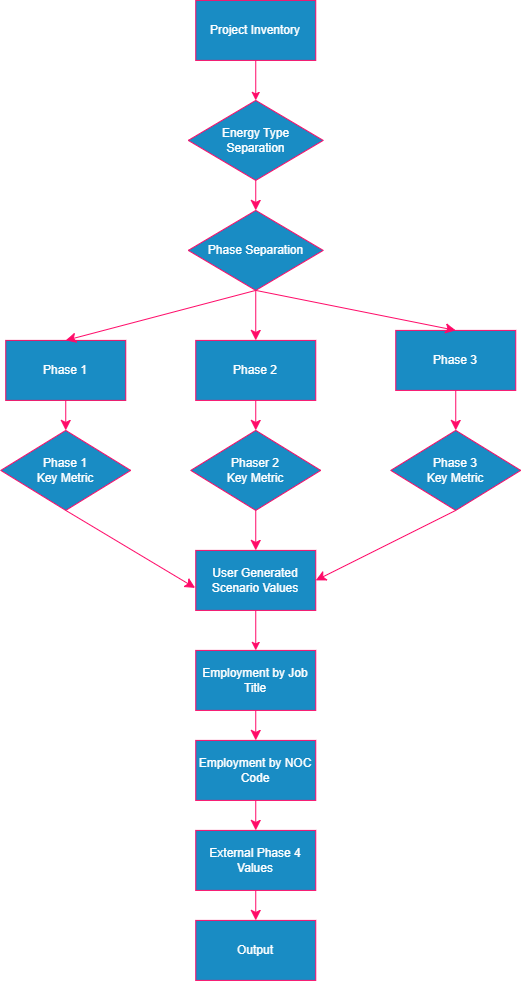
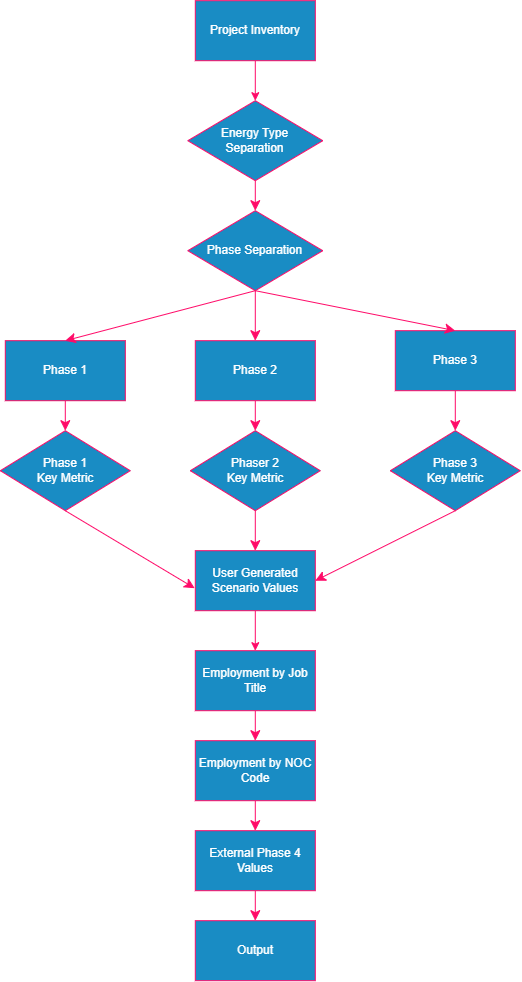
added preliminary research projects. needs proofing

diff --git a/styles.css b/styles.css
@@ -423,3 +423,20 @@ main.content figcaption {
   color: var(--text-muted);
   font-size: 0.9rem;
 }
+
+/* --------------------------------
+   RESEARCH PROJECT IMAGES
+-------------------------------- */
+
+.project-hero-image {
+  width: 100%;
+  height: auto;
+  display: block;
+
+  margin-top: 1.5rem;
+  margin-bottom: 2rem;
+
+  border-radius: 10px;
+  border: 1px solid var(--border);
+  box-shadow: var(--shadow-md);
+}
